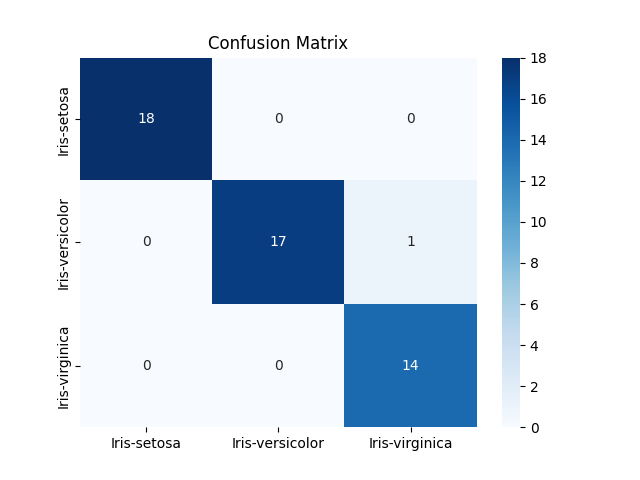
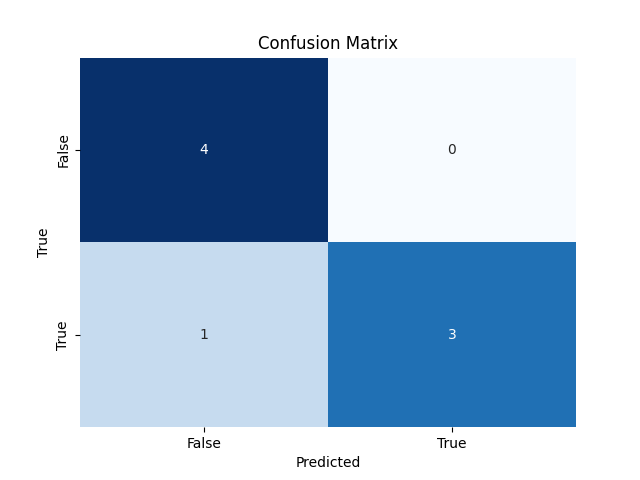
Adjusted example and figure.

diff --git a/easycm/utils.py b/easycm/utils.py
@@ -4,7 +4,18 @@ import matplotlib.pyplot as plt
 import numpy as np
 import pandas as pd
 
-def plot_confusion_matrix(y_true, y_pred, ax=None):
+def plot_confusion_matrix(y_true, y_pred, ax=None, title='Confusion Matrix', xlabel='Predicted', ylabel='True'):
+    '''
+    Plots a confusion matrix for given true and predicted labels.
+
+            Parameters:
+                    y_true: An (n,) array of ground truth labels (boolean, categorical)
+                    y_pred: An (n,) array of predicted labels (boolean, categorical)
+                    ax: A pyplot axes object
+                    title (str): The plot title
+                    xlabel (str): The X label
+                    ylabel (str): The Y label
+    '''
 
     if ax == None:
         fig, ax = plt.subplots()
@@ -15,6 +26,17 @@ def plot_confusion_matrix(y_true, y_pred, ax=None):
 
     df_cm = pd.DataFrame(cm, labels, labels)
 
-    sns.heatmap(df_cm, cmap='Blues', annot=True, ax=ax)
+    sns.heatmap(df_cm, cmap='Blues', cbar=False, annot=True, ax=ax)
 
-    ax.set_title("Confusion Matrix")
+    ax.set_xlabel(xlabel)
+    ax.set_ylabel(ylabel)
+    ax.set_title(title)
+
+
+if __name__=='__main__':
+
+    y_true = [False, True, True, False, False, True, True, False]
+    y_pred = [False, True, True, False, False, True, False, False]
+
+    plot_confusion_matrix(y_true, y_pred)
+    plt.show()

diff --git a/README.md b/README.md
@@ -40,3 +40,17 @@ fig, axs = plt.subplots(1, 2)
 plot_confusion_matrix(y_true, y_pred, ax=axs[0])
 plt.show()
 ```
+
+You can also customize the labels for the X and Y axis and the title.
+
+```python
+from easycm import plot_confusion_matrix
+import matplotlib.pyplot as plt
+
+
+y_true = [False, True, True, False]
+y_pred = [False, False, True, True]
+
+plot_confusion_matrix(y_true, y_pred, title='Title', xlabel='X', ylabel='Y')
+plt.show()
+```
